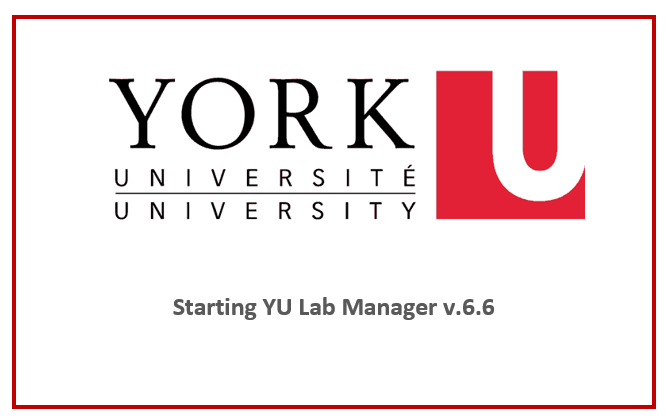
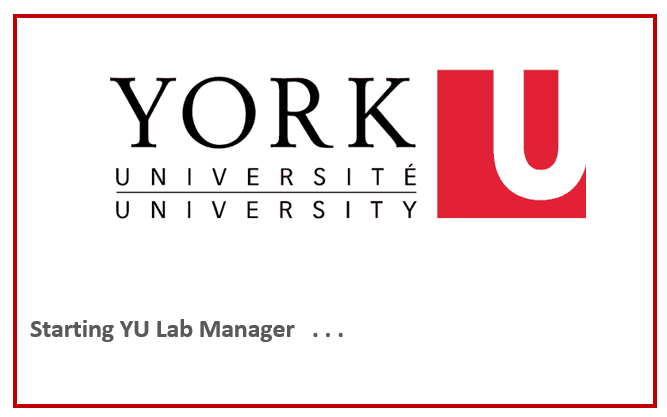
minor update

diff --git a/YorkULabSeating.py b/YorkULabSeating.py
@@ -1199,7 +1199,15 @@ class Reboot_PC_Thread(QThread):
 
 #-------------------------------------------------
 if __name__ == '__main__':
-    #print('Welcome to YU LabManager')
+    
+    def show_main_window(app):
+        #print('Welcome to YU LabManager')
+        mainWindow = MainWindow()
+        mainWindow.setWindowTitle(f'YU LabManager - v{appVersion}')
+        mainWindow.show()
+        splash.finish(mainWindow)
+        logging.getLogger().setLevel(logging.INFO)
+    
     app = QApplication(sys.argv)
     app_icon = QIcon(resource_path("YorkU_icon.ico"))
     app.setWindowIcon(app_icon)
@@ -1224,12 +1232,7 @@ if __name__ == '__main__':
     # Process events to make sure the splash screen is displayed
     QApplication.processEvents()
 
-    mainWindow = MainWindow()
-    mainWindow.setWindowTitle(f'YU LabManager - v{appVersion}')
-    mainWindow.show()
+    # Use QTimer to delay the appearance of the main window after 3 seconds
+    QtCore.QTimer.singleShot(3000, lambda: show_main_window(app))
 
-    # Close the splash screen after the main window is shown
-    splash.finish(mainWindow)
-    logging.getLogger().setLevel(logging.INFO)
-    
     sys.exit(app.exec())
